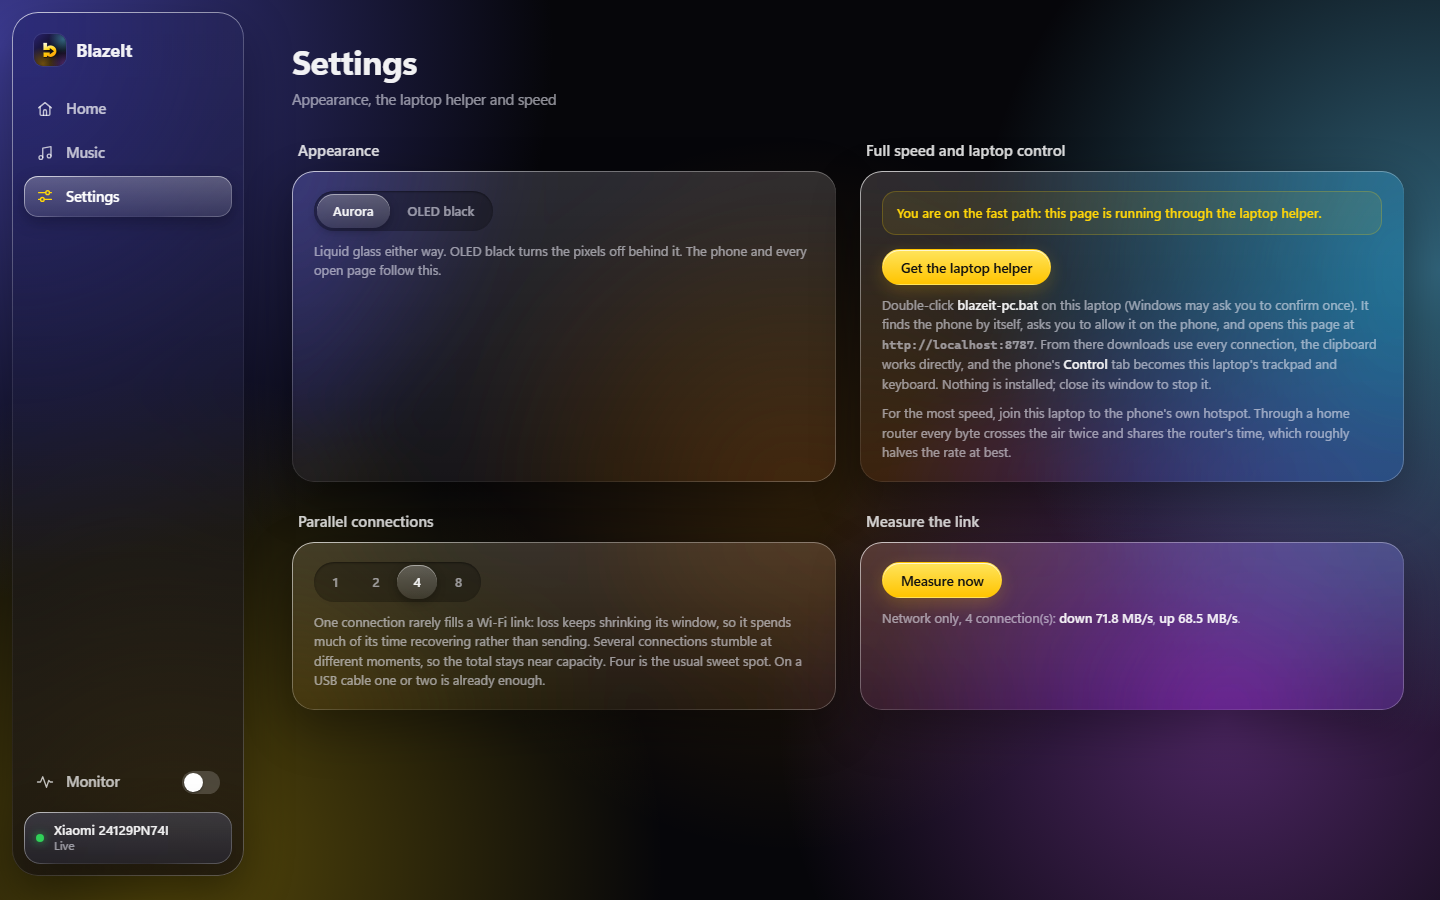
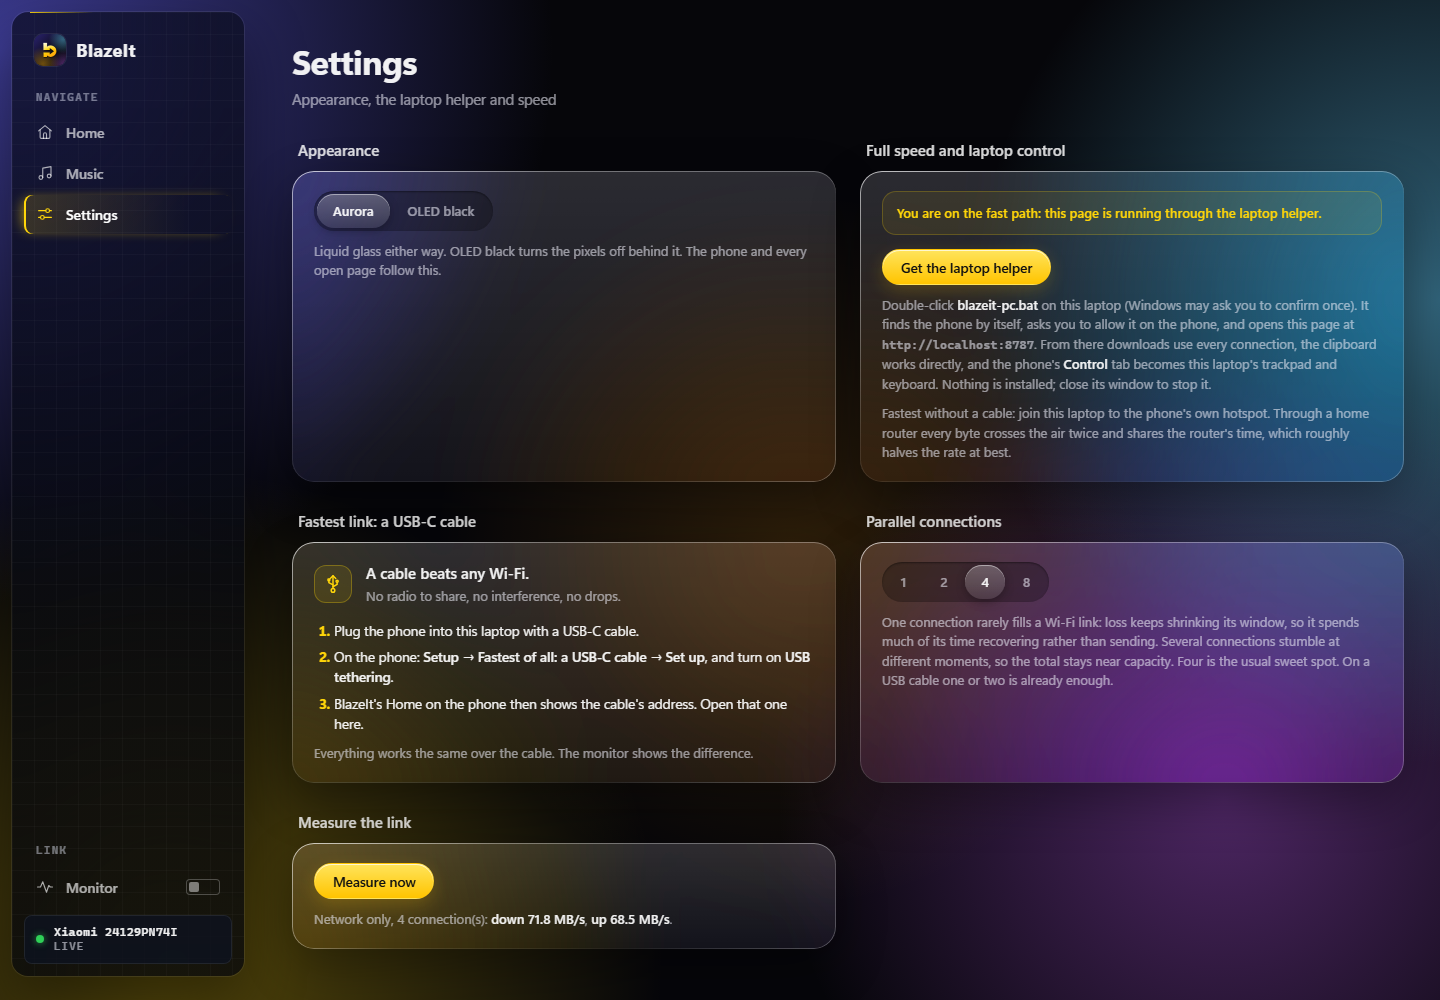
README: no size limit, USB as the fastest link; version 0.3.1

Changed region(s): [[0.0, 0.0, 1.0, 0.9333], [0.0, 0.84, 0.1875, 0.9956], [0.5938, 0.7778, 0.9688, 0.8089]]

diff --git a/README.md b/README.md
@@ -25,7 +25,7 @@ Measured with real 2 GB files between a Xiaomi 15 and a Wi-Fi 7 laptop on 5 GHz,
 No cloud upload, no relay: the laptop talks to the phone directly, uploads and downloads
 run over **several connections at once**, and files stream straight to disk in large
 blocks without ever being held in memory. A 4 GB video crosses in about a minute. Files of
-**up to 64 GB** are accepted (Setup → *Largest file accepted*).
+**up to 64 GB** are accepted (Setup → *Largest file accepted*), or **no limit** at all, where only the phone's free space counts.
 
 <p align="center">
   <img src="docs/images/web-home.png" width="760" alt="Home: clipboard, files and the monitor">
@@ -216,8 +216,10 @@ every byte crosses the air twice and competes for the router's time; the phone's
 is a direct link. It works with mobile data off, so BlazeIt keeps working with no internet
 at all.
 
-**Over USB:** `tools/blazeit-usb.bat` (or `.sh`) forwards the phone's port over a cable
-with `adb` and opens `http://localhost:8787`.
+**Fastest of all: a USB-C cable.** Plug the phone into the laptop and turn on USB tethering
+(Setup → *Fastest of all: a USB-C cable* → *Set up*); BlazeIt shows the cable's address on
+Home. A cable has no radio to share and no interference. The page's Settings has the same
+steps. For developers, `tools/blazeit-usb.bat` (or `.sh`) forwards the port with `adb` instead.
 
 ---
 
